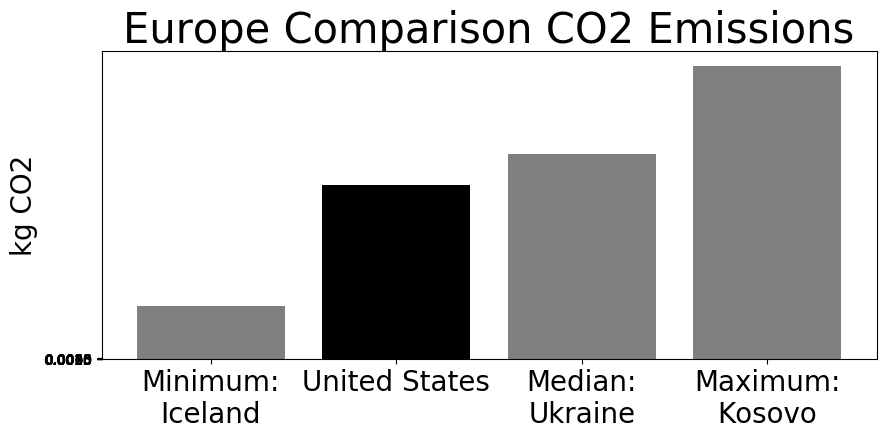
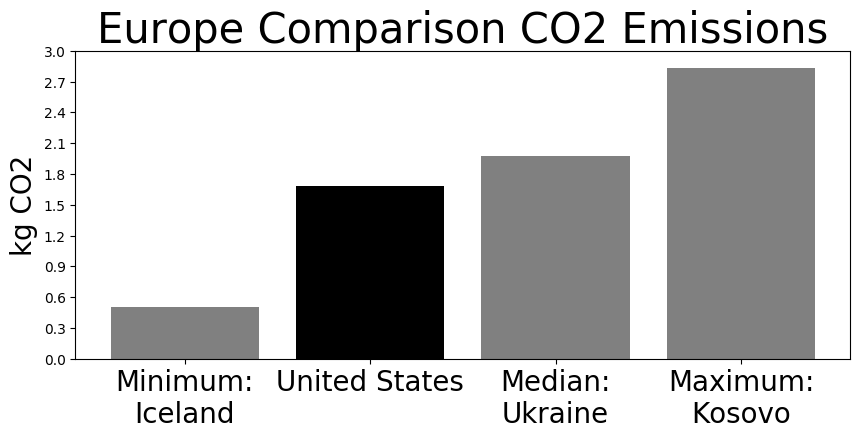
change y step in png

diff --git a/energyusage/graph.py b/energyusage/graph.py
@@ -49,7 +49,7 @@ Takes a dictionary mapping "Min", "Median", "Max", and whatever the current loca
 to the kg CO2 values for those locations.  Min/Med/Max will be graphed in grey and current
 location in black on the same chart.
 """
-def bar_chart(bar_dict, location_key, title, filename, figsize = None):
+def bar_chart(bar_dict, location_key, title, filename, y_step, figsize = None):
 
     plt.figure(figsize=figsize)
 
@@ -67,7 +67,7 @@ def bar_chart(bar_dict, location_key, title, filename, figsize = None):
     plt.bar(y_pos, co2, align='center', color = colors)
     plt.xticks(y_pos, objects, fontsize = FONTSIZE)
     yticks = []
-    plt.yticks([x*0.0005 for x in range(0, 11)])
+    plt.yticks([x*y_step for x in range(0, 11)])
     label = plt.ylabel('kg CO2', fontsize = FONTSIZE)
     title = plt.title(title, fontsize = TITLESIZE)
 
@@ -77,15 +77,18 @@ def bar_chart(bar_dict, location_key, title, filename, figsize = None):
     plt.close()
 
 def make_comparison_bar_charts(currlocation_key, currlocation_co2, us_dict, eu_dict, global_dict):
-    modify_dict(us_dict, currlocation_key, currlocation_co2)
-    bar_chart(us_dict, currlocation_key, "US Comparison CO2 Emissions", "us.png", figsize = (10,4))
-    modify_dict(eu_dict, currlocation_key, currlocation_co2)
+    us_max = modify_dict(us_dict, currlocation_key, currlocation_co2)
+    us_y_step = float(format(us_max, '.1g')) / 10
+    bar_chart(us_dict, currlocation_key, "US Comparison CO2 Emissions", "us.png", us_y_step, figsize = (10,4))
+    eu_max = modify_dict(eu_dict, currlocation_key, currlocation_co2)
+    eu_y_step = float(format(eu_max, '.1g')) / 10
     bar_chart(eu_dict, currlocation_key, "Europe Comparison CO2 Emissions", "europe.png",
-              figsize = (10,4))
-    modify_dict(global_dict, currlocation_key, currlocation_co2)
+              eu_y_step, figsize = (10,4))
+    global_max = modify_dict(global_dict, currlocation_key, currlocation_co2)
+    global_y_step = float(format(global_max, '.1g')) / 10
     bar_chart(global_dict, currlocation_key,
               "Global (Excluding Europe and US)\nComparison CO2 Emissions", "global.png",
-              figsize = (10,4))
+              global_y_step, figsize = (10,4))
 
 def modify_dict(comparison_dict, location_key, location_value):
     sorted_keys = sorted(comparison_dict.keys(), key = comparison_dict.get)
@@ -96,3 +99,4 @@ def modify_dict(comparison_dict, location_key, location_value):
     new_key = "Maximum:\n" + sorted_keys[2]
     comparison_dict[new_key] = comparison_dict.pop(sorted_keys[2])
     comparison_dict[location_key] = location_value
+    return comparison_dict[new_key]

diff --git a/energyusage/evaluate.py b/energyusage/evaluate.py
@@ -313,9 +313,6 @@ def png_bar_chart(location, emission, default_emissions):
     global_dict = {"Mongolia" : default_emissions_list[0], "South Korea": default_emissions_list[1], "Bhutan" : default_emissions_list[2]}
     eu_dict = {"Kosovo" : default_emissions_list[3], "Ukraine" : default_emissions_list[4], "Iceland" : default_emissions_list[5]}
     us_dict = {"Wyoming" : default_emissions_list[6], "Mississippi" : default_emissions_list[7], "Vermont" : default_emissions_list[8]}
-    print(global_dict)
-    print(eu_dict)
-    print(us_dict)
     graph.make_comparison_bar_charts(location, emission, us_dict, eu_dict, global_dict)
 
 def evaluate(user_func, *args, pdf=False, png = False, powerLoss=0.8, energyOutput=False, \
